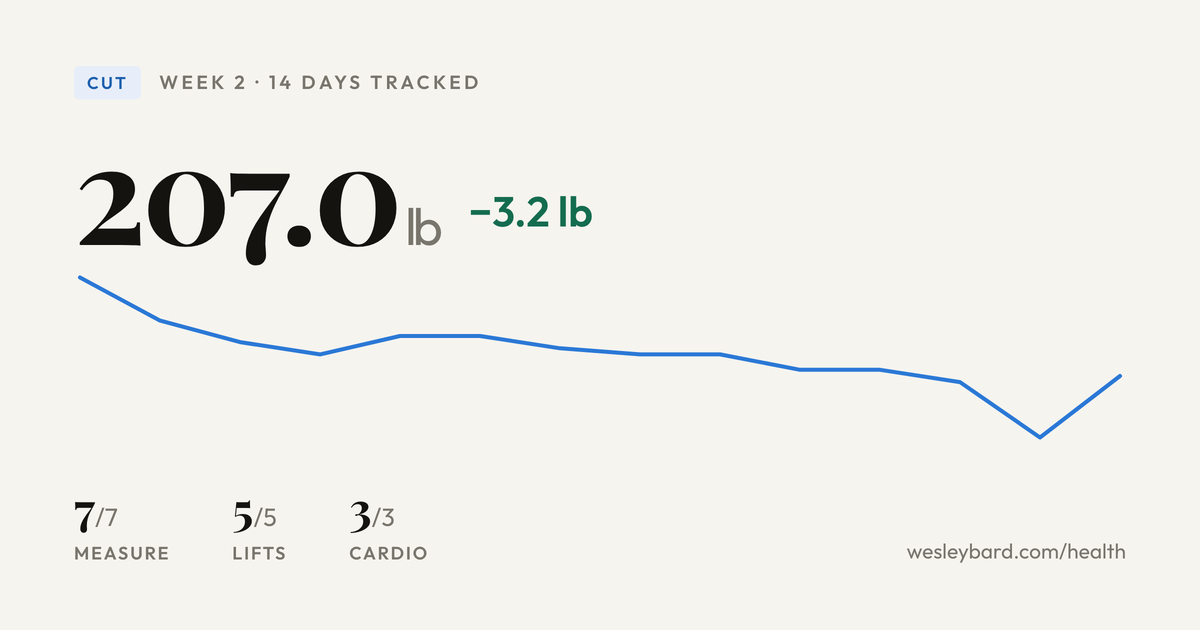
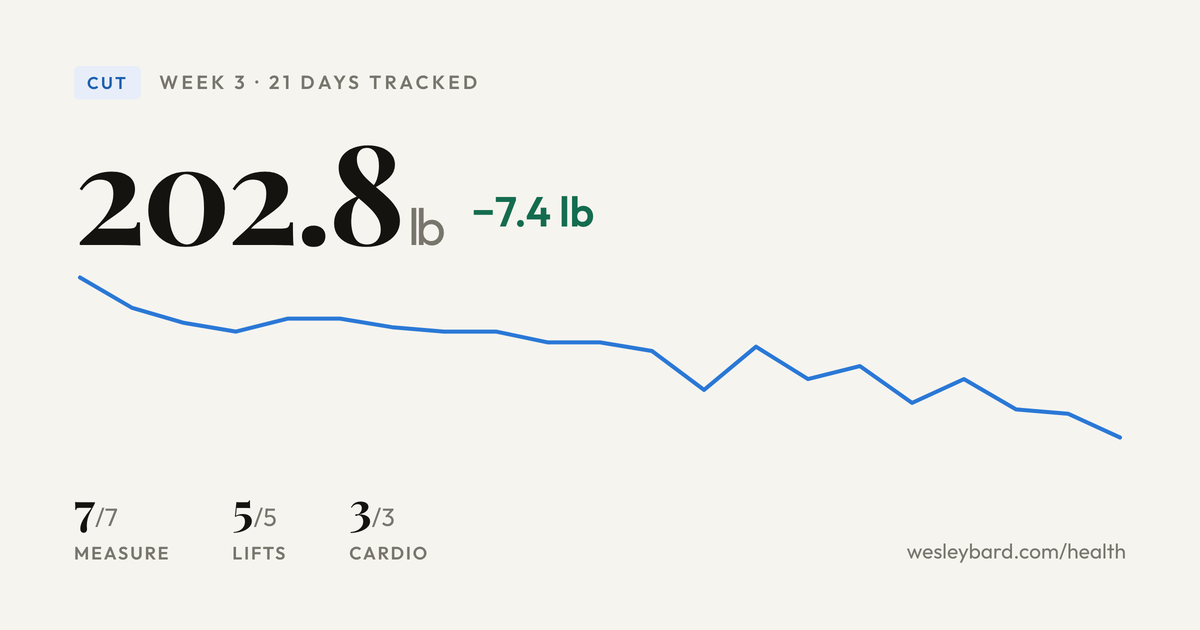
Add the Aug 3–9 week and fix the import script after the dayLabel split
The dayLabel refactor broke scripts/add-health-week.mjs: Node's type
stripping kept dayLabel's non-type-only import of @/types/health, which
only a bundler can resolve. Mark it import type and make health.ts's
import of dayLabel extension-explicit (allowImportingTsExtensions is
safe under noEmit).

diff --git a/lib/health.ts b/lib/health.ts
@@ -1,6 +1,6 @@
 import fs from 'fs';
 import path from 'path';
-import { dayTickLabel } from './dayLabel';
+import { dayTickLabel } from './dayLabel.ts';
 import {
   GoalLine,
   HealthData,

diff --git a/lib/dayLabel.ts b/lib/dayLabel.ts
@@ -1,4 +1,4 @@
-import { HealthDay } from '@/types/health';
+import type { HealthDay } from '@/types/health';
 
 /**
  * The x-axis label every daily chart uses: "Mon 20", "Sun 02".
